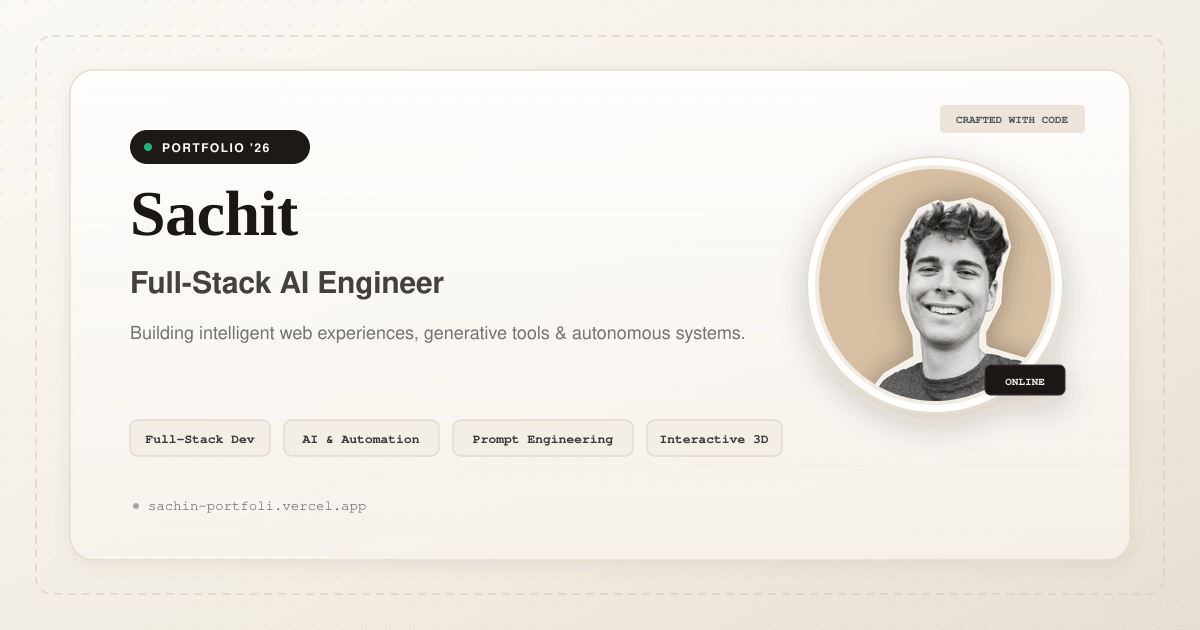
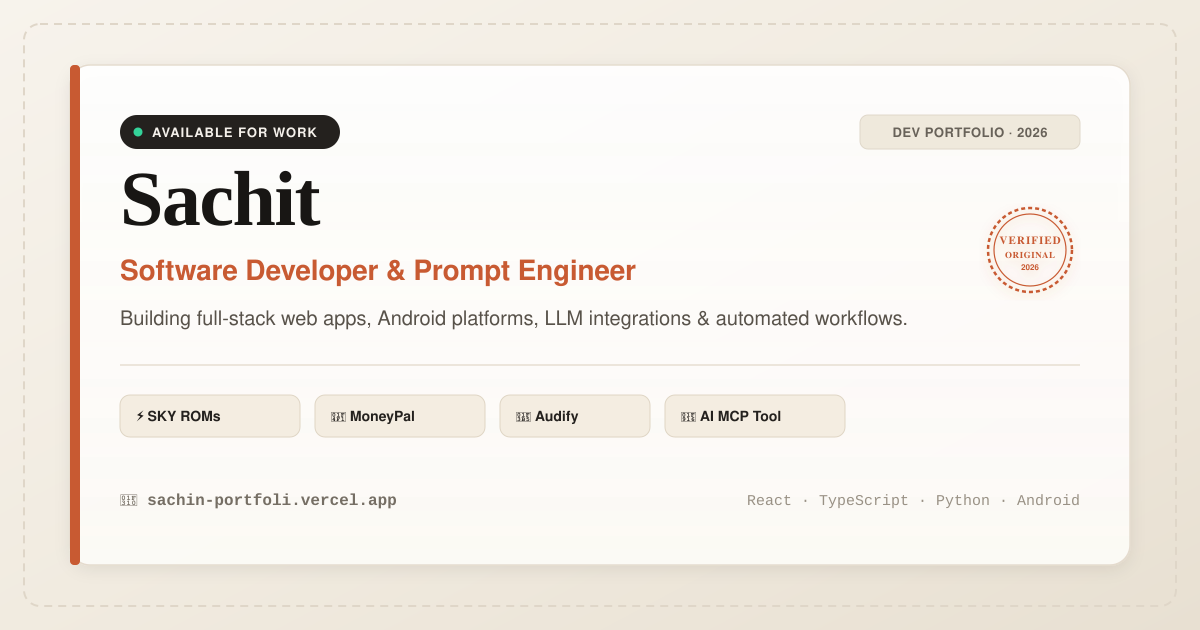
feat: enhance SEO and portfolio presentation
- Improve Open Graph and social media metadata
- Redesign OG image and add server-side routing for static assets
- Update hero professional titles and text flip interval

diff --git a/index.html b/index.html
@@ -37,23 +37,33 @@
     <meta name="robots" content="index, follow" />
     <link rel="canonical" href="https://sachin-portfoli.vercel.app/" />
 
-    <!-- Open Graph / Facebook -->
+    <!-- Open Graph / Facebook / WhatsApp / LinkedIn / Discord -->
     <meta property="og:type" content="website" />
     <meta property="og:url" content="https://sachin-portfoli.vercel.app/" />
-    <meta property="og:title" content="Sachit" />
+    <meta property="og:site_name" content="Sachit" />
+    <meta property="og:title" content="Sachit — Software Developer &amp; Prompt Engineer" />
     <meta property="og:description" content="Portfolio of Sachit, a Software Developer and Prompt Engineer focusing on full-stack web applications, AI tools, custom Android platforms, and automation." />
     <meta property="og:image" content="https://sachin-portfoli.vercel.app/og-image.png" />
+    <meta property="og:image:secure_url" content="https://sachin-portfoli.vercel.app/og-image.png" />
+    <meta property="og:image:type" content="image/png" />
     <meta property="og:image:width" content="1200" />
     <meta property="og:image:height" content="630" />
-    <meta property="og:image:type" content="image/png" />
-    <meta property="og:site_name" content="Sachit" />
+    <meta property="og:image:alt" content="Sachit — Software Developer &amp; Prompt Engineer Portfolio" />
 
-    <!-- Twitter -->
+    <!-- Twitter / X Card -->
     <meta name="twitter:card" content="summary_large_image" />
     <meta name="twitter:site" content="@sachit" />
-    <meta name="twitter:title" content="Sachit" />
+    <meta name="twitter:creator" content="@sachit" />
+    <meta name="twitter:title" content="Sachit — Software Developer &amp; Prompt Engineer" />
     <meta name="twitter:description" content="Portfolio of Sachit, a Software Developer and Prompt Engineer focusing on full-stack web applications, AI tools, custom Android platforms, and automation." />
     <meta name="twitter:image" content="https://sachin-portfoli.vercel.app/og-image.png" />
+    <meta name="twitter:image:alt" content="Sachit — Software Developer &amp; Prompt Engineer Portfolio" />
+
+    <!-- Direct Image Previews Fallback (WhatsApp, Telegram, Google snippet) -->
+    <link rel="image_src" href="https://sachin-portfoli.vercel.app/og-image.png" />
+    <meta itemprop="name" content="Sachit — Software Developer &amp; Prompt Engineer" />
+    <meta itemprop="description" content="Portfolio of Sachit, a Software Developer and Prompt Engineer focusing on full-stack web applications, AI tools, custom Android platforms, and automation." />
+    <meta itemprop="image" content="https://sachin-portfoli.vercel.app/og-image.png" />
 
     <!-- Google Search Console -->
     <meta name="google-site-verification" content="google408f1e9d23948ad9" />

diff --git a/src/components/SEO/SEOMetadata.tsx b/src/components/SEO/SEOMetadata.tsx
@@ -115,7 +115,7 @@ export const SEOMetadata = ({
     }
     gSiteVer.setAttribute('content', googleSiteVerification);
 
-    // 4. Open Graph Meta Tags (Facebook, LinkedIn, Google Search)
+    // 4. Open Graph Meta Tags (Facebook, LinkedIn, Google Search, WhatsApp)
     const setOgTag = (property: string, content: string) => {
       let tag = document.querySelector(`meta[property="${property}"]`);
       if (!tag) {
@@ -126,11 +126,20 @@ export const SEOMetadata = ({
       tag.setAttribute('content', content);
     };
 
+    const hostOrigin = typeof window !== 'undefined' && window.location.origin ? window.location.origin : 'https://sachin-portfoli.vercel.app';
+    const ogImageUrl = `${hostOrigin}/og-image.png`;
+
     setOgTag('og:title', fullTitle);
     setOgTag('og:description', description);
     setOgTag('og:type', pageType === 'home' && activeSection === 'hero' ? 'website' : 'article');
-    setOgTag('og:url', `https://sachin-portfoli.vercel.app${canonicalPath}`);
+    setOgTag('og:url', `${hostOrigin}${canonicalPath}`);
     setOgTag('og:site_name', 'Sachit');
+    setOgTag('og:image', ogImageUrl);
+    setOgTag('og:image:secure_url', ogImageUrl);
+    setOgTag('og:image:type', 'image/png');
+    setOgTag('og:image:width', '1200');
+    setOgTag('og:image:height', '630');
+    setOgTag('og:image:alt', 'Sachit — Software Developer & Prompt Engineer Portfolio');
 
     // 5. Twitter Card Meta Tags
     const setTwitterTag = (name: string, content: string) => {
@@ -146,6 +155,17 @@ export const SEOMetadata = ({
     setTwitterTag('twitter:card', 'summary_large_image');
     setTwitterTag('twitter:title', fullTitle);
     setTwitterTag('twitter:description', description);
+    setTwitterTag('twitter:image', ogImageUrl);
+    setTwitterTag('twitter:image:alt', 'Sachit — Software Developer & Prompt Engineer Portfolio');
+
+    // WhatsApp / Legacy image_src fallback
+    let imgSource = document.querySelector('link[rel="image_src"]');
+    if (!imgSource) {
+      imgSource = document.createElement('link');
+      imgSource.setAttribute('rel', 'image_src');
+      document.head.appendChild(imgSource);
+    }
+    imgSource.setAttribute('href', ogImageUrl);
 
     // 6. Canonical Link
     let canonical = document.querySelector('link[rel="canonical"]');

diff --git a/src/components/UI/DepthFlipText.tsx b/src/components/UI/DepthFlipText.tsx
@@ -105,31 +105,34 @@ export const DepthFlipText = memo<DepthFlipTextProps>(({
                       }}
                       variants={{
                         initial: {
-                          rotateX: -70,
-                          y: 15,
+                          rotateX: -60,
+                          y: 10,
                           opacity: 0,
-                          scale: 0.94,
+                          filter: 'blur(3px)',
+                          scale: 0.96,
                         },
                         animate: {
                           rotateX: 0,
                           y: 0,
                           opacity: 1,
+                          filter: 'blur(0px)',
                           scale: 1,
                           transition: {
-                            duration: 0.48,
-                            ease: [0.16, 1, 0.3, 1],
-                            delay: i * 0.022,
+                            duration: 0.52,
+                            ease: [0.22, 1, 0.36, 1],
+                            delay: Math.min(i * 0.016, 0.22),
                           },
                         },
                         exit: {
-                          rotateX: 70,
-                          y: -15,
+                          rotateX: 60,
+                          y: -10,
                           opacity: 0,
-                          scale: 0.94,
+                          filter: 'blur(2px)',
+                          scale: 0.96,
                           transition: {
-                            duration: 0.32,
-                            ease: [0.7, 0, 0.84, 0],
-                            delay: i * 0.01,
+                            duration: 0.36,
+                            ease: [0.32, 0, 0.67, 0],
+                            delay: Math.min(i * 0.01, 0.14),
                           },
                         },
                       }}

diff --git a/server.ts b/server.ts
@@ -443,6 +443,28 @@ async function startServer() {
   app.get("/sitemap.xml", serveSitemap);
   app.get("/sitemap.xml.js", serveSitemap);
 
+  app.get("/og-image.png", (req, res) => {
+    const ogPngPath = path.join(process.cwd(), "public", "og-image.png");
+    if (fs.existsSync(ogPngPath)) {
+      res.setHeader("Content-Type", "image/png");
+      res.setHeader("Cache-Control", "public, max-age=86400, s-maxage=604800");
+      res.sendFile(ogPngPath);
+    } else {
+      res.status(404).send("Not found");
+    }
+  });
+
+  app.get("/og-image.svg", (req, res) => {
+    const ogSvgPath = path.join(process.cwd(), "public", "og-image.svg");
+    if (fs.existsSync(ogSvgPath)) {
+      res.setHeader("Content-Type", "image/svg+xml");
+      res.setHeader("Cache-Control", "public, max-age=86400, s-maxage=604800");
+      res.sendFile(ogSvgPath);
+    } else {
+      res.status(404).send("Not found");
+    }
+  });
+
   app.get("/robots.txt", (req, res) => {
     const host = req.get('x-forwarded-host') || req.get('host') || 'sachin-portfoli.vercel.app';
     const protocol = req.get('x-forwarded-proto') || 'https';

diff --git a/src/components/Portfolio/Hero.tsx b/src/components/Portfolio/Hero.tsx
@@ -99,16 +99,17 @@ export const Hero = memo<HeroProps>(({
               phrases={[
                 "Full-Stack Web Developer",
                 "AI & Prompt Engineer",
-                "Next.js Frontend Developer",
-                "Native Android Developer",
+                "Frontend Developer",
+                "Android Developer",
+                "Backend Engineer",
+                "Product Engineer",
+                "Opensource Dev",
                 "LLM Integration Developer",
-                "REST API & Backend Engineer",
                 "Web & Mobile Developer",
                 "UI & Motion Engineer",
-                "Software Product Engineer",
                 "Best Vibecoder"
               ]}
-              interval={3800}
+              interval={3300}
             />
           </span>
         </h1>
